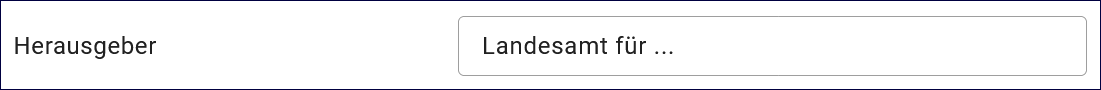
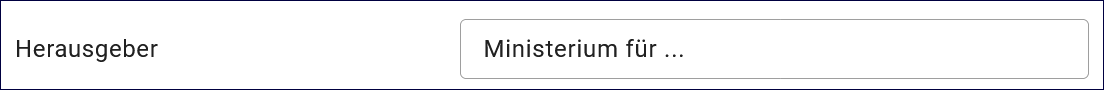
Aktualisierung

diff --git a/docs/ingrid-editor/erfassung/datensatztypen/datensatztyp-dokument.rst b/docs/ingrid-editor/erfassung/datensatztypen/datensatztyp-dokument.rst
@@ -48,7 +48,7 @@ Abb.: Eingabezeile - Herausgeber
 
 Angabe des Herausgebers. Der Herausgeber ist z. B. die Institution, für die der Autor arbeitet und in deren Auftrag er geschrieben hat. Es kann sich aber auch um einen Verlag, eine Vereinigung oder eine andere Einrichtung handeln, die Beiträge zu einem Thema sammelt und als Buch herausgibt oder Bücher zu einem Thema als Reihe herausgibt.
 
-Beispiel: Landesamt für ...
+Beispiel: Ministerium für ...
 
 Name der verantwortlichen Kontaktperson in der Reihenfolge Name, Vorname, Titel, getrennt durch ein Trennzeichen.
 
@@ -200,7 +200,7 @@ Feld: Weitere bibliographische Angaben
 
 Hier können bibliographische Angaben gemacht werden, für die kein explizites Feld vorgesehen ist. Dies können z.B. Angaben zu Abbildungen oder zum Format sein. Wichtig ist auch ein Hinweis, ob das Dokument in Papierform oder als Datendownload vorliegt.
 
-Beispiel: 60. Jahrgang | 2023 | Jahresheft; Sprache: deutsch
+Beispiel: 60. Jahrgang | 2023 | Jahresheft, Sprache: deutsch
 
 
 Feld: Erläuterungen
